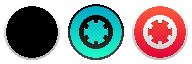
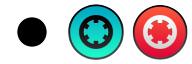
Atualização de posição do peao

diff --git a/cliente/js/cena-principal.js b/cliente/js/cena-principal.js
@@ -5,123 +5,123 @@ export default class principal extends Phaser.Scene {
     this.tabuleiro = [
       {
         numero: 0,
-        x: 15,
-        y: 260,
+        x: 27,
+        y: 268,
       },
       {
         numero: 1,
-        x: 15,
-        y: 465,
+        x: 27,
+        y: 471,
       },
       {
         numero: 2,
-        x: 15,
-        y: 667,
+        x: 27,
+        y: 675,
       },
       {
         numero: 3,
-        x: 220,
-        y: 260,
+        x: 224,
+        y: 268,
       },
       {
         numero: 4,
         x: 423,
-        y: 260,
+        y: 268,
       },
       {
         numero: 5,
         x: 423,
-        y: 465,
+        y: 472,
       },
       {
         numero: 6,
         x: 423,
-        y: 669,
+        y: 675,
       },
       {
         numero: 7,
-        x: 220,
-        y: 668,
+        x: 224,
+        y: 675,
       },
       {
         numero: 8,
-        x: 79,
-        y: 325,
+        x: 83,
+        y: 331,
       },
       {
         numero: 9,
-        x: 79,
-        y: 464,
+        x: 86,
+        y: 472,
       },
       {
         numero: 10,
-        x: 79,
-        y: 605,
+        x: 83,
+        y: 611,
       },
       {
         numero: 11,
-        x: 359,
-        y: 325,
+        x: 363,
+        y: 331,
       },
       {
         numero: 12,
-        x: 360,
-        y: 465,
+        x: 363,
+        y: 472,
       },
       {
         numero: 13,
-        x: 360,
-        y: 604,
+        x: 363,
+        y: 611,
       },
       {
         numero: 14,
-        x: 220,
-        y: 325,
+        x: 224,
+        y: 331,
       },
       {
         numero: 15,
-        x: 220,
-        y: 607,
+        x: 224,
+        y: 611,
       },
       {
         numero: 16,
-        x: 141,
-        y: 385,
+        x: 145,
+        y: 391,
       },
       {
         numero: 17,
-        x: 139,
-        y: 464,
+        x: 145,
+        y: 472,
       },
       {
         numero: 18,
-        x: 141,
-        y: 545,
+        x: 145,
+        y: 550,
       },
       {
         numero: 19,
-        x: 299,
-        y: 385,
+        x: 302,
+        y: 391,
       },
       {
         numero: 20,
-        x: 299,
-        y: 465,
+        x: 302,
+        y: 472,
       },
       {
         numero: 21,
-        x: 298,
-        y: 544,
+        x: 302,
+        y: 550,
       },
       {
         numero: 22,
-        x: 220,
-        y: 385,
+        x: 224,
+        y: 391,
       },
       {
         numero: 23,
-        x: 220,
-        y: 545,
+        x: 224,
+        y: 550,
       },
     ];
   }
